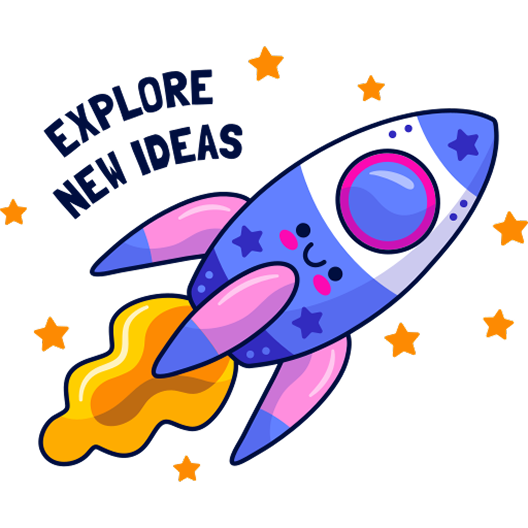
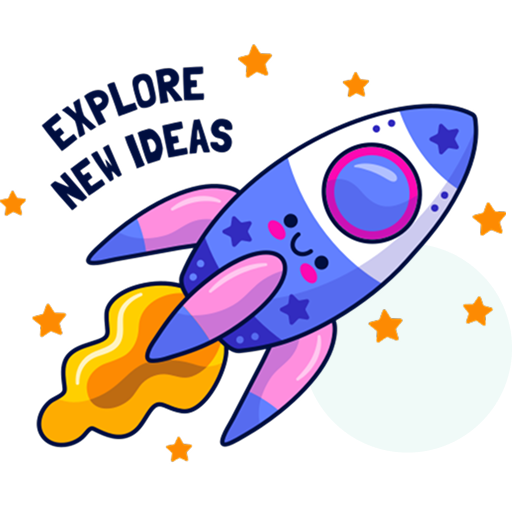
UI update and asset update

diff --git a/src/pages/LoginScreen/LoginScreen.tsx b/src/pages/LoginScreen/LoginScreen.tsx
@@ -1,5 +1,5 @@
 import React, { useState } from 'react';
-import { IonPage, IonContent } from '@ionic/react';
+import { IonPage, IonContent, IonImg } from '@ionic/react';
 import PadaiHeader from '../../components/LandingScreen/Header/Header';
 import PadaiHeaderBanner from '../../components/LandingScreen/HeaderBanner/HeaderBanner';
 import PadaiFooter from '../../components/LandingScreen/Footer/Footer';
@@ -9,20 +9,21 @@ import { LoginForm, defaultLoginForm } from './LoginScreen.interface';
 import PadAISignUpForm from '../../components/LoginScreen/SignUpForm/SignUpForm';
 
 const PadAILoginScreen = () => {
-    const [step, setStep] = useState(1);
-    const [loginForm, setLoginForm] = useState<LoginForm>(JSON.parse(JSON.stringify(defaultLoginForm)));
-    return (
-        <IonPage>
-        <PadaiHeader />
-        <IonContent>
-          {step !== 3 && <PadaiHeaderBanner />}
-          {step === 1 && <PadAIStateAndSchoolSelection setStep={setStep} loginForm={loginForm} setLoginForm={setLoginForm} />}
-          {step === 2 && <PadAIPhoneNoValidation setStep={setStep} loginForm={loginForm} setLoginForm={setLoginForm} />}
-          {step === 3 && <PadAISignUpForm setStep={setStep} loginForm={loginForm} setLoginForm={setLoginForm} />}
-          <PadaiFooter />
-        </IonContent>
-      </IonPage>
-    );
+  const [step, setStep] = useState(1);
+  const [loginForm, setLoginForm] = useState<LoginForm>(JSON.parse(JSON.stringify(defaultLoginForm)));
+  return (
+    <IonPage className='padAIlandingScreen-page'>
+      {step !== 3 && <IonImg src="/assets/images/landingScreens/vectorTwoBg.png" alt="headerBanner" className='padAIvectorTwoBg' />}
+      <PadaiHeader />
+      <IonContent className='padAIlandingScreen-content'>
+        {step !== 3 && <PadaiHeaderBanner />}
+        {step === 1 && <PadAIStateAndSchoolSelection setStep={setStep} loginForm={loginForm} setLoginForm={setLoginForm} />}
+        {step === 2 && <PadAIPhoneNoValidation setStep={setStep} loginForm={loginForm} setLoginForm={setLoginForm} />}
+        {step === 3 && <PadAISignUpForm setStep={setStep} loginForm={loginForm} setLoginForm={setLoginForm} />}
+        <PadaiFooter />
+      </IonContent>
+    </IonPage>
+  );
 };
 
 export default PadAILoginScreen;  

diff --git a/src/App.css b/src/App.css
@@ -3,3 +3,41 @@
 body {
     font-family: 'Inter', sans-serif !important;
 }
+
+.padAILoginTitle {
+    font-size: 24px !important;
+    font-weight: 600 !important;
+    font-family: 'Inter', sans-serif !important;
+    color: #000000 !important;
+}
+.padAILoginSubTitle,
+.padAIInputLabel {
+    font-size: 16px !important;
+    font-weight: 400 !important;
+    font-family: 'Inter', sans-serif !important;
+}
+.padAIInputLabel{
+    font-weight: 600 !important;
+    color: #000000 !important;
+    margin-top: 10px !important;
+    margin-bottom: 5px !important;
+}
+.padAIInput{
+    border-radius: 16px !important;
+    border: 1px solid #E0E0E0 !important;
+    margin-bottom: 10px !important;
+    width: 100% !important;
+    font-size: 16px !important;
+    font-weight: 400 !important;
+    font-family: 'Inter', sans-serif !important;
+}
+.padAISegment{
+    margin-top: 10px !important;
+    padding: 3px !important;
+}
+.padAISegmentButton{
+    font-size: 16px !important;
+    font-weight: 400 !important;
+    font-family: 'Inter', sans-serif !important;
+    padding: 8px !important;
+}

diff --git a/src/pages/LandingScreen/LandingScreen.tsx b/src/pages/LandingScreen/LandingScreen.tsx
@@ -9,9 +9,10 @@ import { useHistory } from 'react-router-dom';
 const LandingScreen: React.FC = () => {
   const history = useHistory();
   return (
-    <IonPage>
+    <IonPage className='padAIlandingScreen-page'>
+      <IonImg src="/assets/images/landingScreens/vectorTwoBg.png" alt="headerBanner" className='padAIvectorTwoBg' />
       <PadaiHeader />
-      <IonContent>
+      <IonContent className='padAIlandingScreen-content'>
         <PadaiHeaderBanner />
         <IonImg src="/assets/images/landingScreens/vectorOne.png" alt="headerBanner" className='padAIvectorOne' />
         <div className='padAIbuttons-container'>

diff --git a/src/pages/LanguageScreen/LanguageScreen.tsx b/src/pages/LanguageScreen/LanguageScreen.tsx
@@ -8,9 +8,10 @@ import PadaiLanguageContainer from '../../components/LanguageScreen/LanguageCont
 import './LanguageScreen.css';
 const PadAILanguageScreen: React.FC = () => {
   return (
-    <IonPage>
+    <IonPage className='padAIlandingScreen-page'>
+      <IonImg src="/assets/images/landingScreens/vectorTwoBg.png" alt="headerBanner" className='padAIvectorTwoBg' />
       <PadaiHeader />
-      <IonContent>
+      <IonContent className='padAIlandingScreen-content'>
         <PadaiHeaderBanner />
         <PadaiLanguageContainer />
         <PadaiFooter />

diff --git a/src/pages/LandingScreen/LandingScreen.css b/src/pages/LandingScreen/LandingScreen.css
@@ -1,7 +1,22 @@
+.padAIlandingScreen-page{
+    position: relative;
+}
+.padAIvectorTwoBg{
+    position: absolute;
+    top: 0;
+    left: 0;
+    width: 100%;
+    z-index: -1;
+}
+.padAIlandingScreen-content{
+    position: relative;
+    --background-color: transparent !important;
+    --background: transparent !important;
+    z-index: 1;
+}
 .padAIvectorOne{
-    max-width: 300px;
+    height: 35vh;
     width: auto;
-    height: auto;
     margin: 5px auto;
 }
 .padAIbuttons-container{

diff --git a/src/pages/LanguageScreen/LanguageScreen.css b/src/pages/LanguageScreen/LanguageScreen.css
@@ -1,0 +1,16 @@
+.padAIlandingScreen-page{
+    position: relative;
+}
+.padAIvectorTwoBg{
+    position: absolute;
+    top: 0;
+    left: 0;
+    width: 100%;
+    z-index: -1;
+}
+.padAIlandingScreen-content{
+    position: relative;
+    --background-color: transparent !important;
+    --background: transparent !important;
+    z-index: 1;
+}

diff --git a/src/pages/LoginScreen/LoginScreen.css b/src/pages/LoginScreen/LoginScreen.css
@@ -1,0 +1,16 @@
+.padAIlandingScreen-page{
+    position: relative;
+}
+.padAIvectorTwoBg{
+    position: absolute;
+    top: 0;
+    left: 0;
+    width: 100%;
+    z-index: -1;
+}
+.padAIlandingScreen-content{
+    position: relative;
+    --background-color: transparent !important;
+    --background: transparent !important;
+    z-index: 1;
+}

diff --git a/src/components/LoginScreen/LoginScreen.css b/src/components/LoginScreen/LoginScreen.css
@@ -32,7 +32,7 @@
     margin-bottom: 5px !important;
 }
 .padAIInput{
-    border-radius: 3px !important;
+    border-radius: 16px !important;
     border: 1px solid #E0E0E0 !important;
     margin-bottom: 10px !important;
     width: 100% !important;
